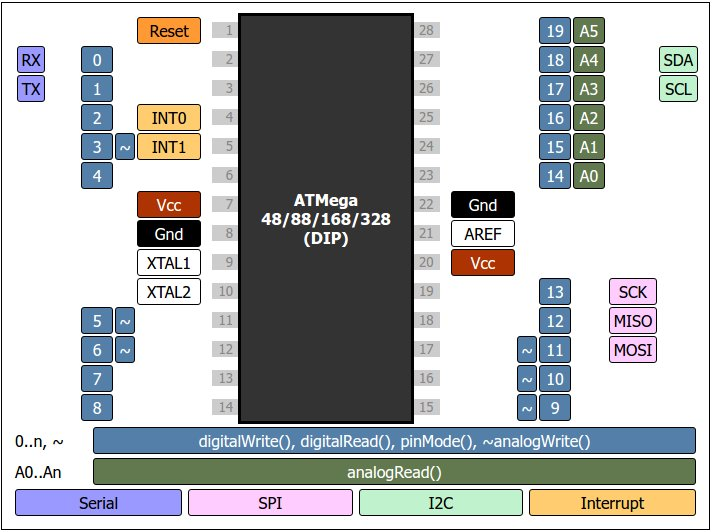
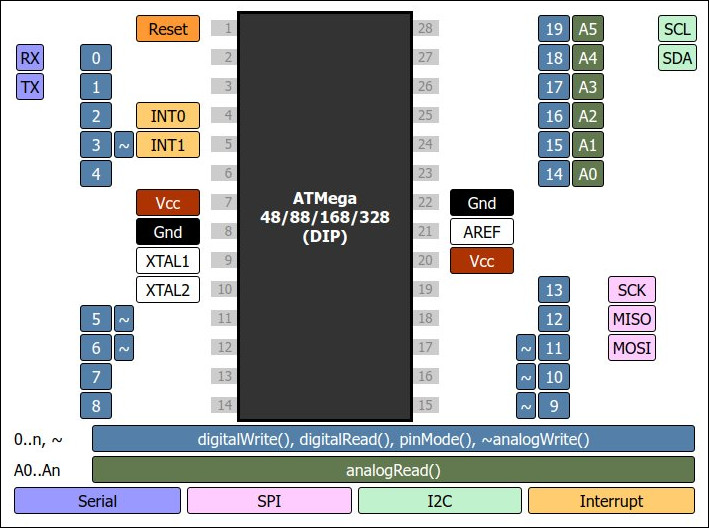
SCL on wrong pin x8 DIP - Fix #1

diff --git a/templates.js b/templates.js
@@ -224,7 +224,7 @@ var templates = [
           {
             Serial : {TX:   3,  RX: 2},
             SPI    : {MOSI: 17, MISO: 18, SCK: 19},
-            I2C    : {SDA:  27,           SCL: 26}
+            I2C    : {SDA:  27,           SCL: 28}
           }        
           
         },

diff --git a/index.html b/index.html
@@ -429,6 +429,7 @@
           if(!j.Peripherals.Programmer)
           {
             document.getElement('#key .pin.Programmer').style.display = 'none';
+            numPeripherals++;
           }
           else
           {
